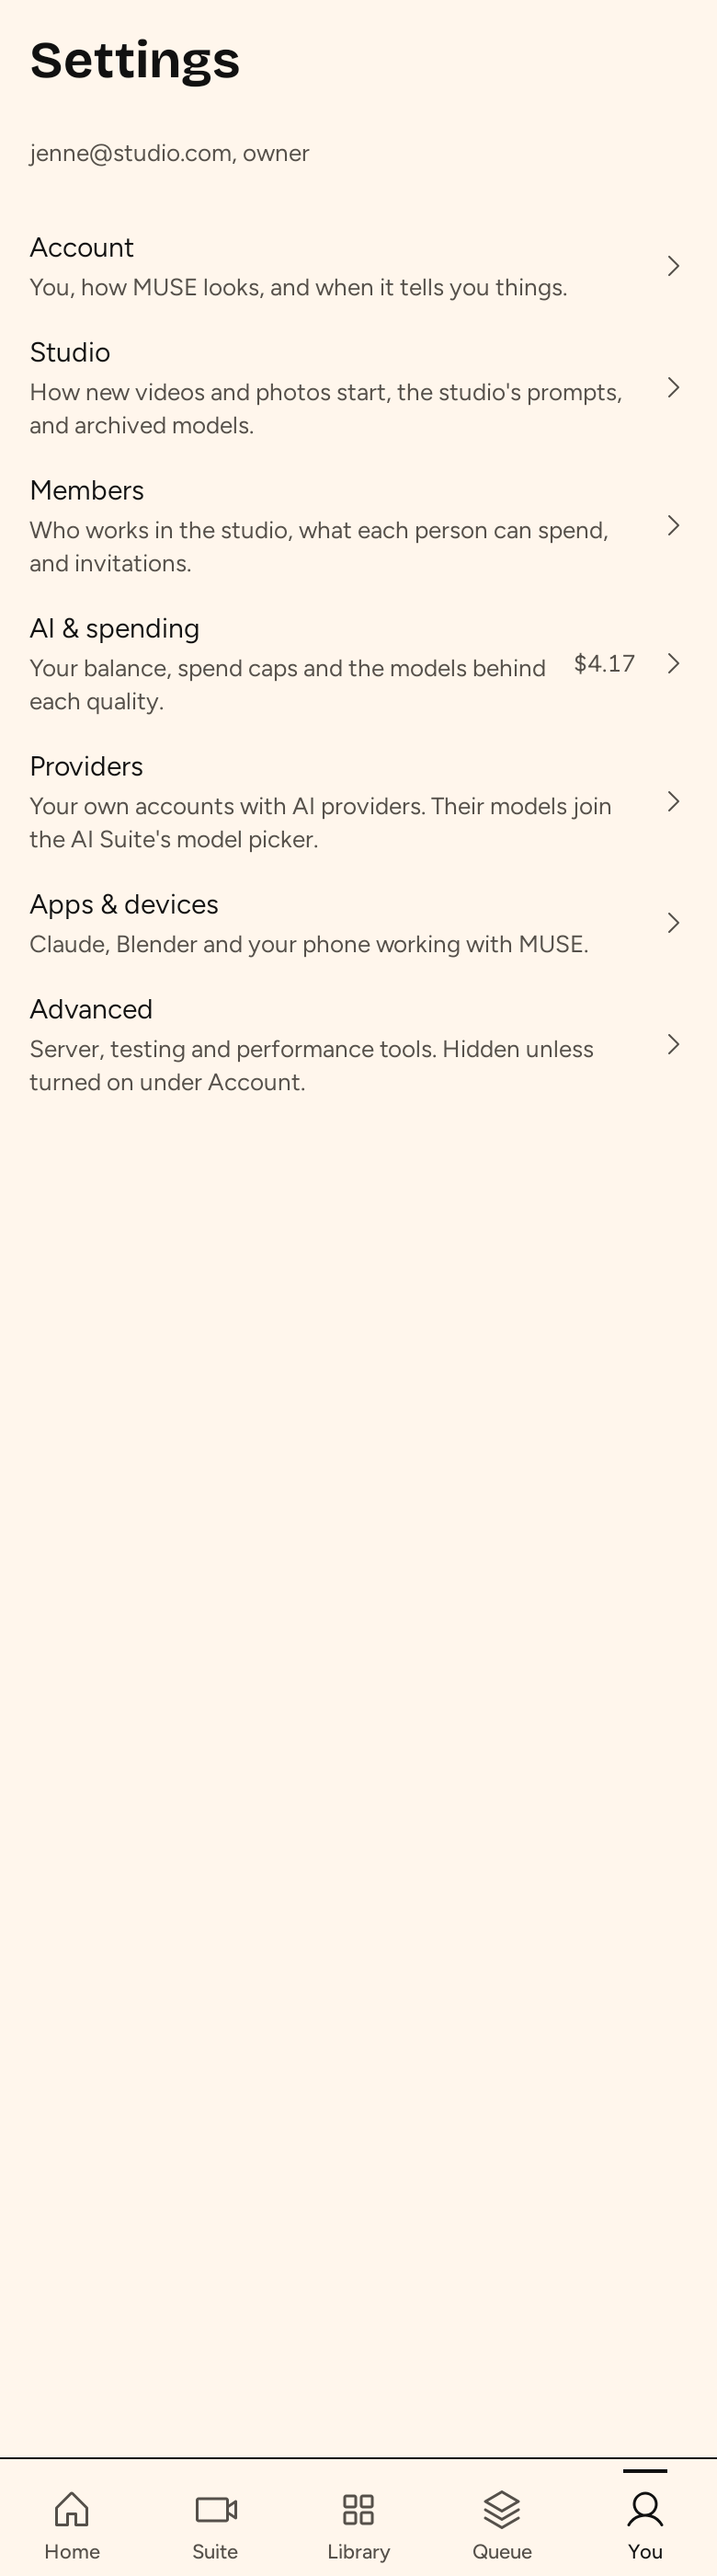
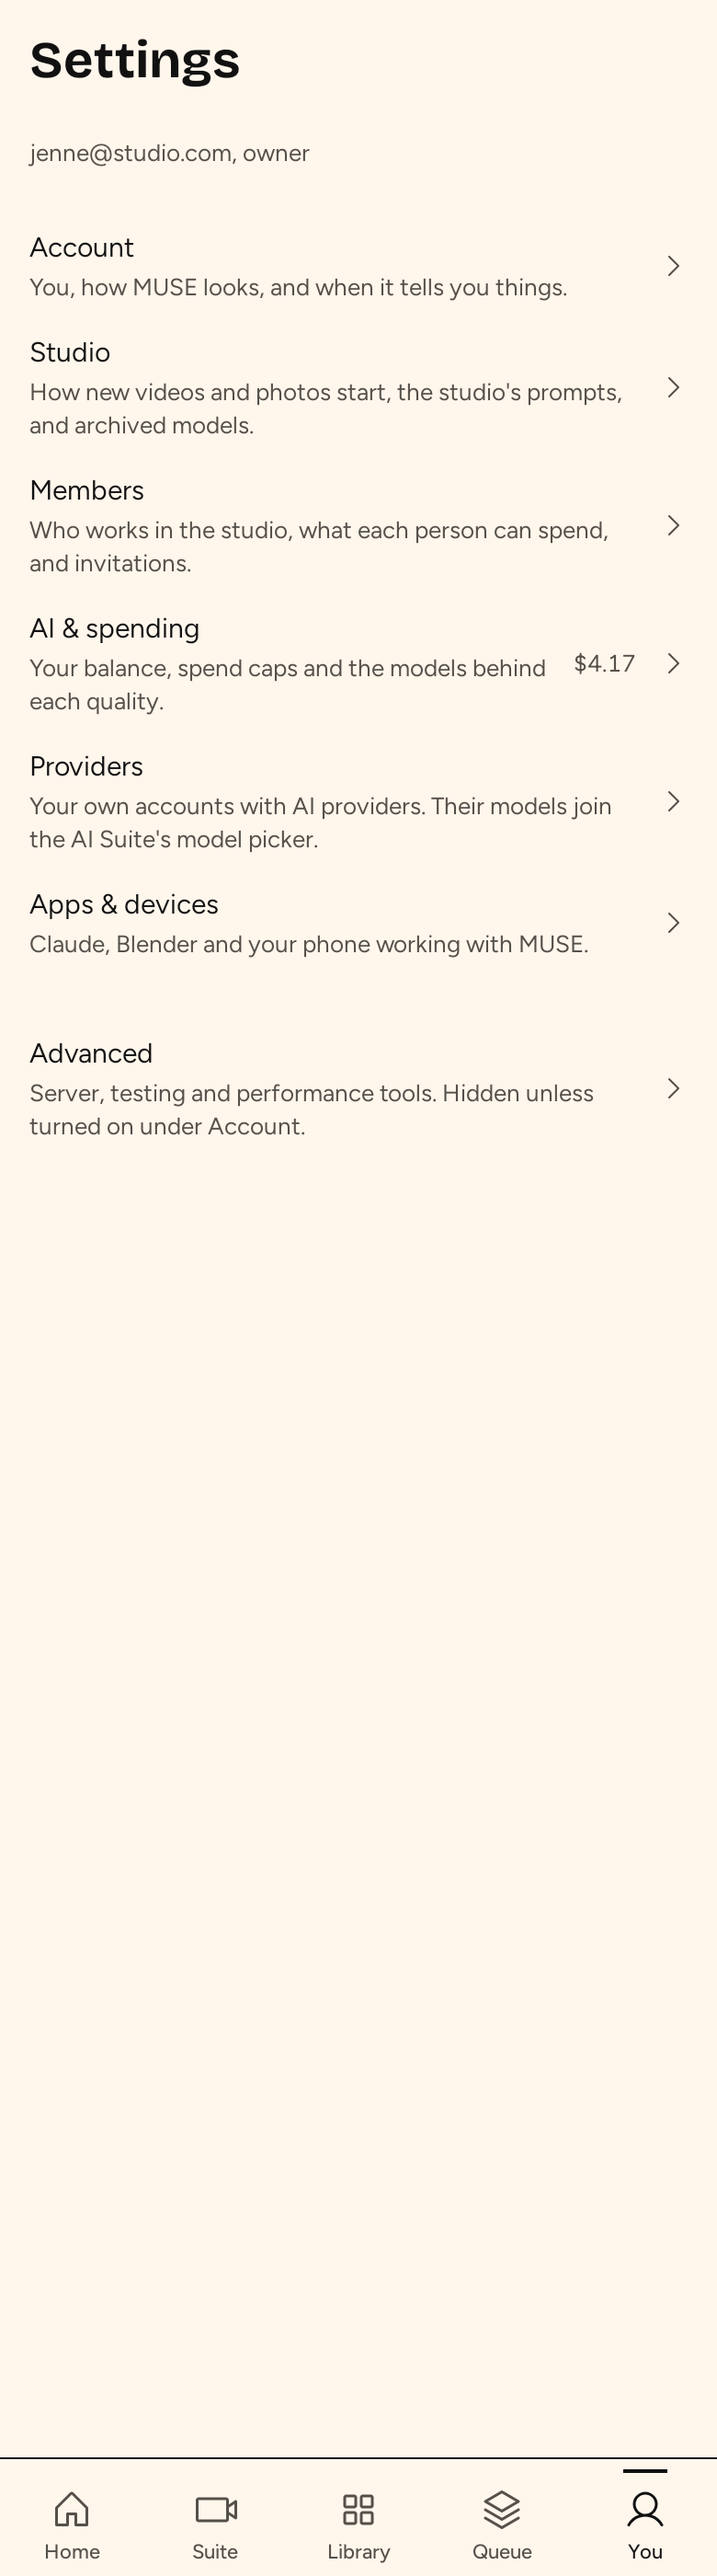
Android Settings: the Mac's final copy (Advanced apart at the bottom, Where to find your <Label> key, No models switched on yet, Needs a setting MUSE can't fill in yet, Rename model); Muapi in the demo's provider kinds
Claude-Session: https://claude.ai/code/session_01Py2rxngd8dggBVUEdbnrKE

Changed region(s): [[0.0308, 0.4039, 0.5846, 0.435], [0.6154, 0.4039, 0.8308, 0.435]]

diff --git a/android/app/src/main/kotlin/studio/muse/app/ui/screens/ProvidersScreens.kt b/android/app/src/main/kotlin/studio/muse/app/ui/screens/ProvidersScreens.kt
@@ -183,6 +183,10 @@ private fun AddProviderForm(s: ProvidersState, vm: ProvidersViewModel?) {
                 SecureKeyField(null, k.keyHint.ifBlank { "Paste the key" }, s.busy, s.error, s.keysReady, { key -> vm?.add(kind, key) },
                     note = "Saved encrypted on the MUSE server, checked with ${k.label.ifBlank { k.kind }} first. Afterwards you only see its last 4 characters.",
                     onCancel = { vm?.adding(false) })
+                k.keyUrl?.takeIf { it.startsWith("https://") }?.let { url ->
+                    val uri = androidx.compose.ui.platform.LocalUriHandler.current
+                    TextAction("Where to find your ${k.label.ifBlank { k.kind }} key", { runCatching { uri.openUri(url) } })
+                }
             }
         }
     }
@@ -274,7 +278,7 @@ internal fun ProviderModelsContent(
         when {
             s.loading -> SkeletonLines(5)
             s.error != null -> ErrorState("Can't load the models", s.error, action = null)
-            shown.isEmpty() -> Caption(if (s.filter == "on") "No models are on yet. Switch one on to pick it per shot." else "No models match.")
+            shown.isEmpty() -> Caption(if (s.filter == "on") "No models switched on yet." else "No models match.")
             else -> LazyColumn(Modifier.fillMaxSize(), verticalArrangement = Arrangement.spacedBy(MuseSpace.s1)) {
                 items(shown, key = { it.ref }) { mdl -> ProviderModelRow(mdl, onToggle, onRename) }
             }
@@ -294,14 +298,17 @@ private fun ProviderModelRow(mdl: ProviderCatalogModel, onToggle: (ProviderCatal
         Row(Modifier.fillMaxWidth().heightIn(min = 48.dp), verticalAlignment = Alignment.CenterVertically, horizontalArrangement = Arrangement.spacedBy(MuseSpace.s2)) {
             Column(Modifier.weight(1f).semantics(mergeDescendants = true) { contentDescription = "${mdl.name}, ${mdl.ref}" }) {
                 T(mdl.name.ifBlank { mdl.ref }, m.scale.body, m.roles.ink, maxLines = 1)
-                T(listOfNotNull(mdl.ref, if (mdl.kind == "video") "Video" else "Image", price).joinToString(", "), m.scale.caption, m.roles.ink2, maxLines = 1)
-                if (!mdl.ready) T("Needs setup: ${mdl.missing.joinToString(", ").ifBlank { "details" }}", m.scale.caption, m.roles.caution, maxLines = 1)
+                T(listOfNotNull(if (mdl.kind == "video") "Video" else "Image", mdl.ref, price).joinToString(", "), m.scale.caption, m.roles.ink2, maxLines = 1)
+                if (!mdl.ready) T("Needs a setting MUSE can't fill in yet: ${mdl.missing.joinToString(", ").ifBlank { "details" }}", m.scale.caption, m.roles.caution, maxLines = 2)
             }
             Toggle(on, { onToggle(mdl, !on) }, Modifier.semantics { contentDescription = "Use ${mdl.name}" })
         }
-        if (renaming) Row(verticalAlignment = Alignment.CenterVertically, horizontalArrangement = Arrangement.spacedBy(MuseSpace.s2)) {
-            Input(name, { name = it.take(60) }, Modifier.weight(1f), calm = true)
-            TextAction("Save", { onRename(mdl, name); renaming = false })
+        if (renaming) Labeled("Rename model") {
+            Row(verticalAlignment = Alignment.CenterVertically, horizontalArrangement = Arrangement.spacedBy(MuseSpace.s2)) {
+                Input(name, { name = it.take(60) }, Modifier.weight(1f), calm = true)
+                TextAction("Save", { onRename(mdl, name); renaming = false })
+            }
+            Caption("The name you see in the AI Suite's model picker.")
         } else TextAction("Rename", { renaming = true })
     }
 }

diff --git a/android/app/src/main/kotlin/studio/muse/app/data/FakeProvidersApi.kt b/android/app/src/main/kotlin/studio/muse/app/data/FakeProvidersApi.kt
@@ -11,6 +11,7 @@ class FakeProvidersApi(private val now: () -> Long, private val delayMs: Long = 
     private val kindList = listOf(
         ProviderKind("replicate", "Replicate", "Starts with r8_", "https://replicate.com/account/api-tokens"),
         ProviderKind("fal", "fal", "A key id and secret, joined with a colon", "https://fal.ai/dashboard/keys"),
+        ProviderKind("muapi", "Muapi", "Your Muapi API key", "https://muapi.ai/dashboard"),
     )
     private val list = mutableListOf(
         Provider("p_demo", "replicate", "Studio Replicate", "7Q2k", "ok", 1_762_600_000_000, 1_762_000_000_000),
@@ -46,7 +47,7 @@ class FakeProvidersApi(private val now: () -> Long, private val delayMs: Long = 
     private fun view(p: Provider) = p.copy(models = counts(p.id))
     private fun provider(id: String) = list.firstOrNull { it.id == id } ?: throw ApiException("not_found", "That provider isn't connected any more")
     private fun check(kind: String, key: String) {
-        val ok = when (kind) { "replicate" -> key.startsWith("r8_") && key.length >= 12; "fal" -> ':' in key && key.length >= 12; else -> false }
+        val ok = when (kind) { "replicate" -> key.startsWith("r8_") && key.length >= 12; "fal" -> ':' in key && key.length >= 12; "muapi" -> key.length >= 12; else -> false }
         if (!ok) throw ApiException("invalid_key", "That key didn't work with ${kindList.firstOrNull { it.kind == kind }?.label ?: kind}. Nothing was saved.")
     }
 

diff --git a/android/app/src/main/kotlin/studio/muse/app/ui/screens/SettingsScreens.kt b/android/app/src/main/kotlin/studio/muse/app/ui/screens/SettingsScreens.kt
@@ -153,6 +153,8 @@ fun SettingsScreen() {
             if (s.prefs.email.isNotBlank()) Caption(s.prefs.email + if (s.prefs.owner) ", owner" else ", member of ${s.prefs.studioName.ifBlank { "the studio" }}")
             Column {
                 SettingsSection.visible(s.prefs.owner, s.prefs.showAdvanced).forEach { sec ->
+                    // Advanced sits apart at the bottom of the list (as on the Mac).
+                    if (sec == SettingsSection.ADVANCED) androidx.compose.foundation.layout.Spacer(Modifier.height(MuseSpace.s5))
                     RowItem(sec.title, sec.line, onClick = { nav.go(sec.route) }, modifier = Modifier.testTag("section_${sec.name.lowercase()}")) {
                         if (sec == SettingsSection.AI) RowValue(creditLabel(s.wallet, s.balance))
                         Chevron()
